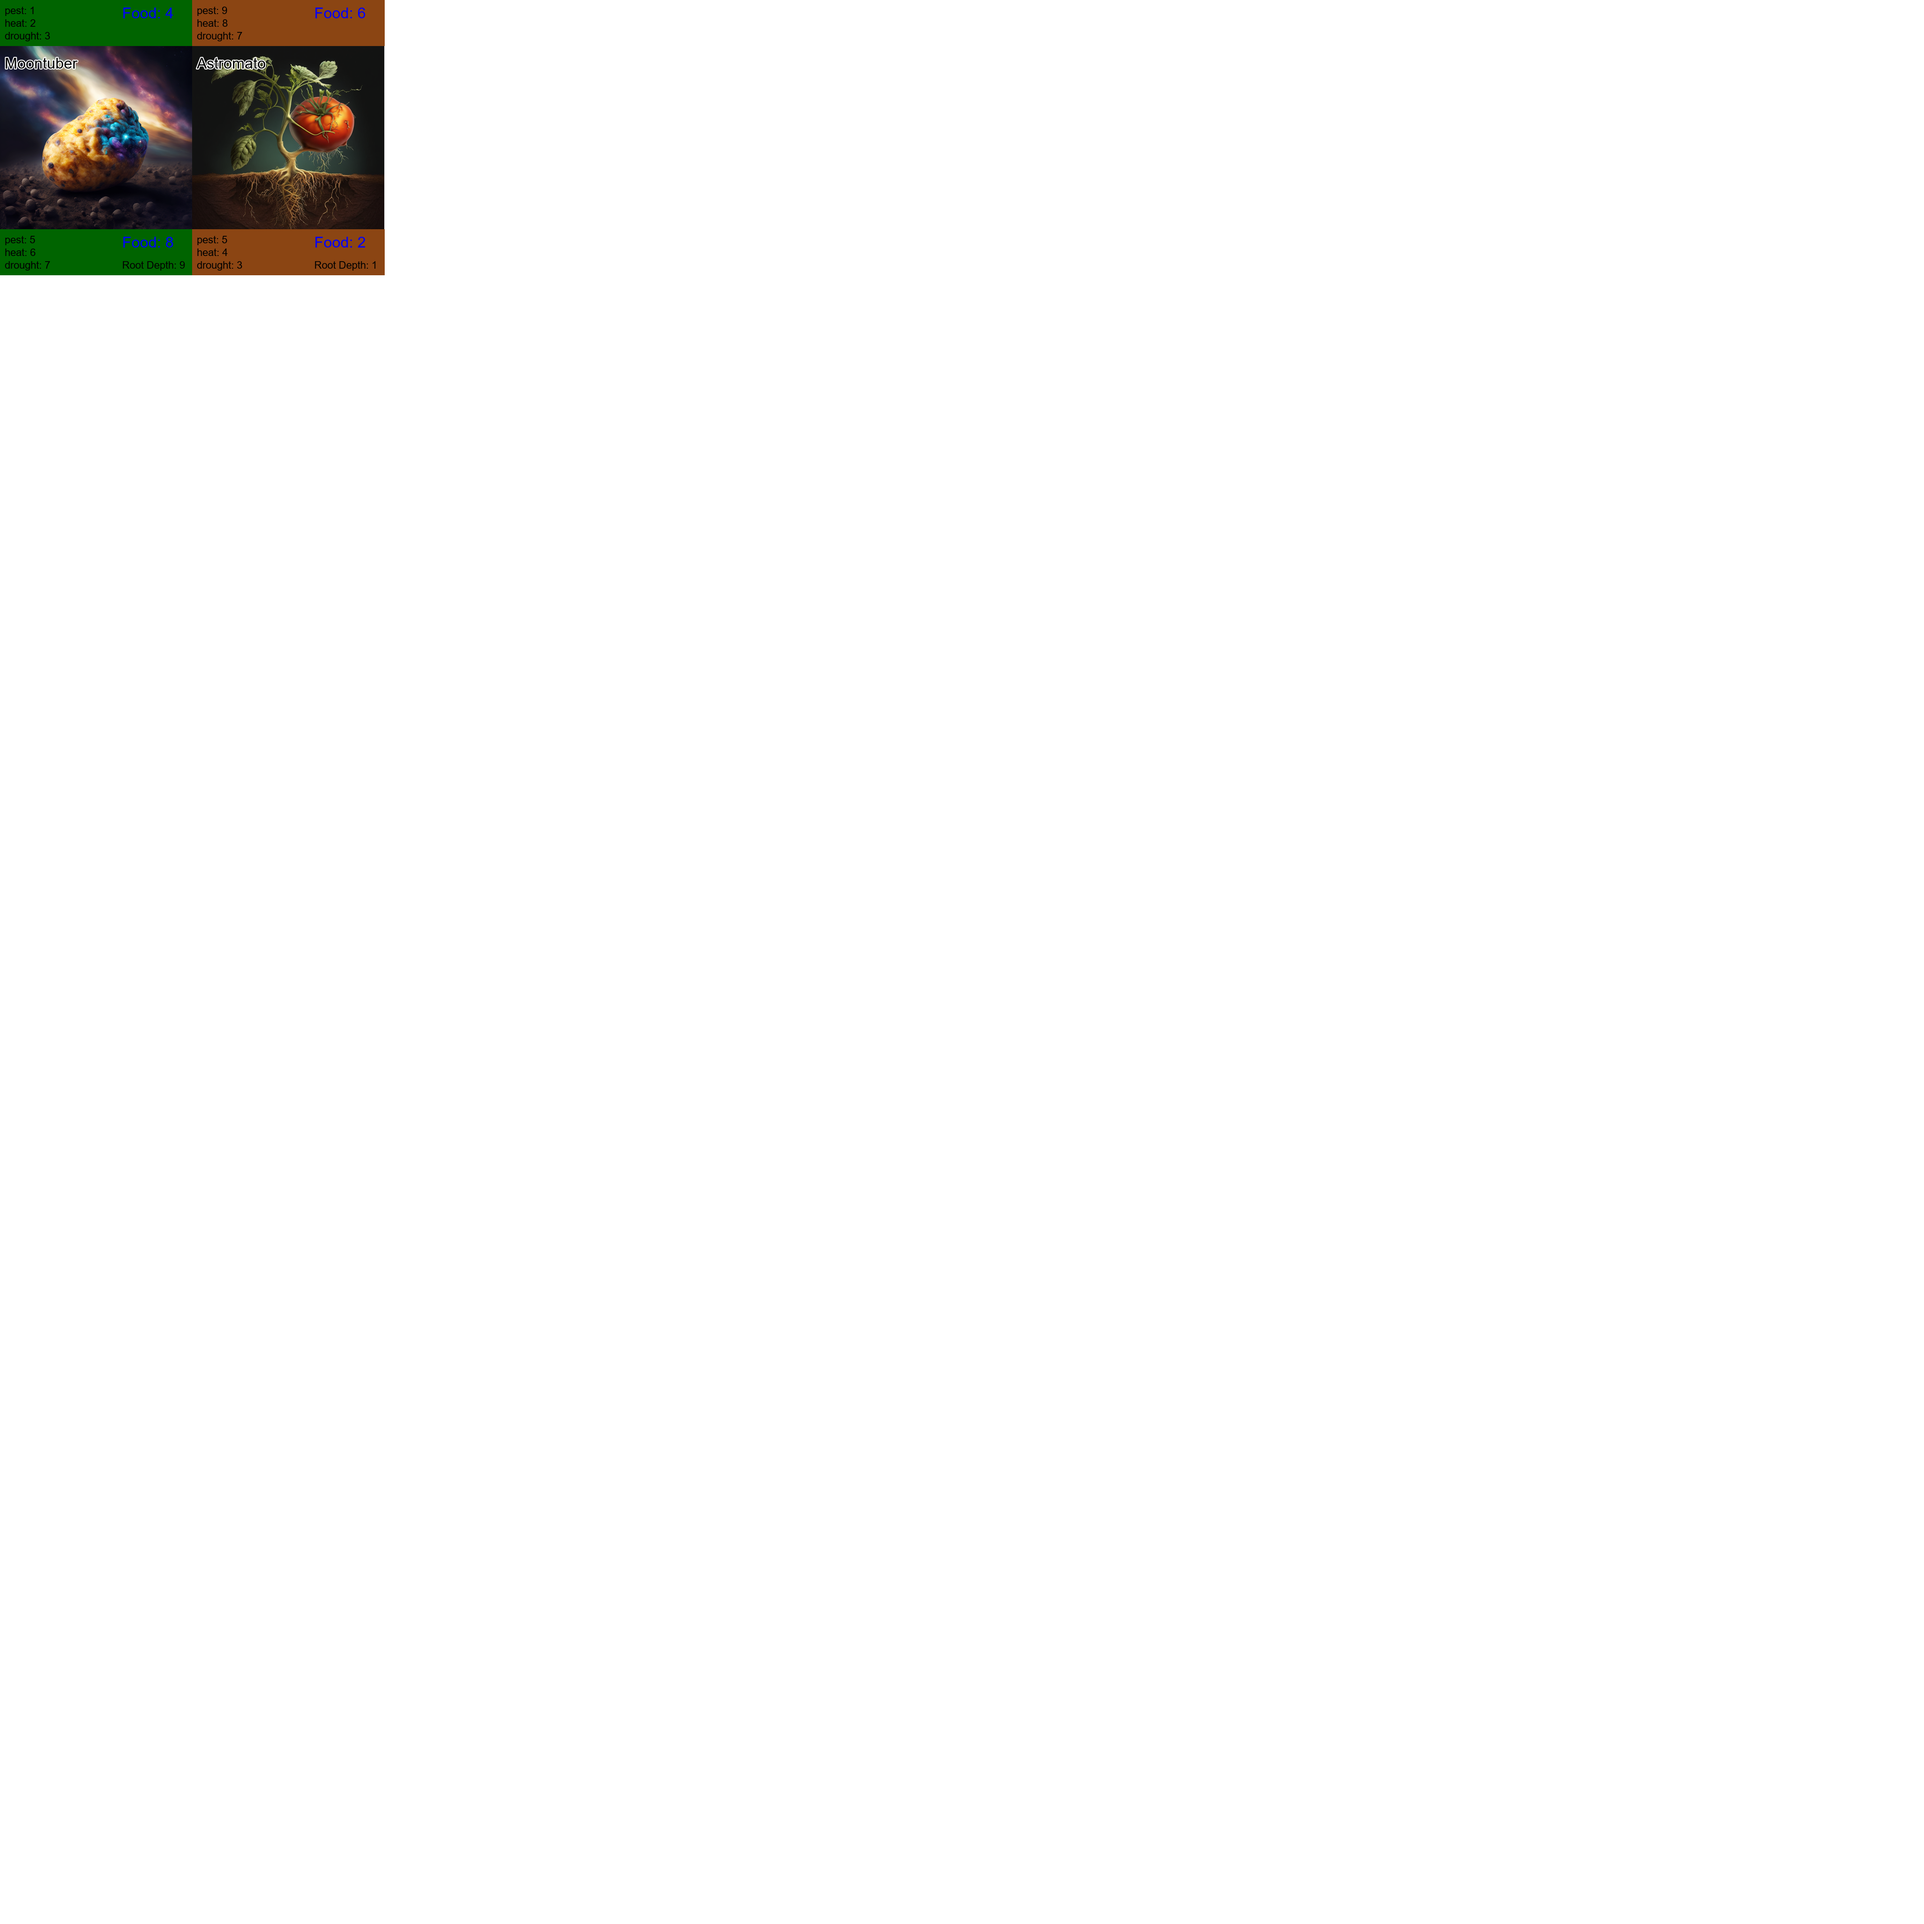
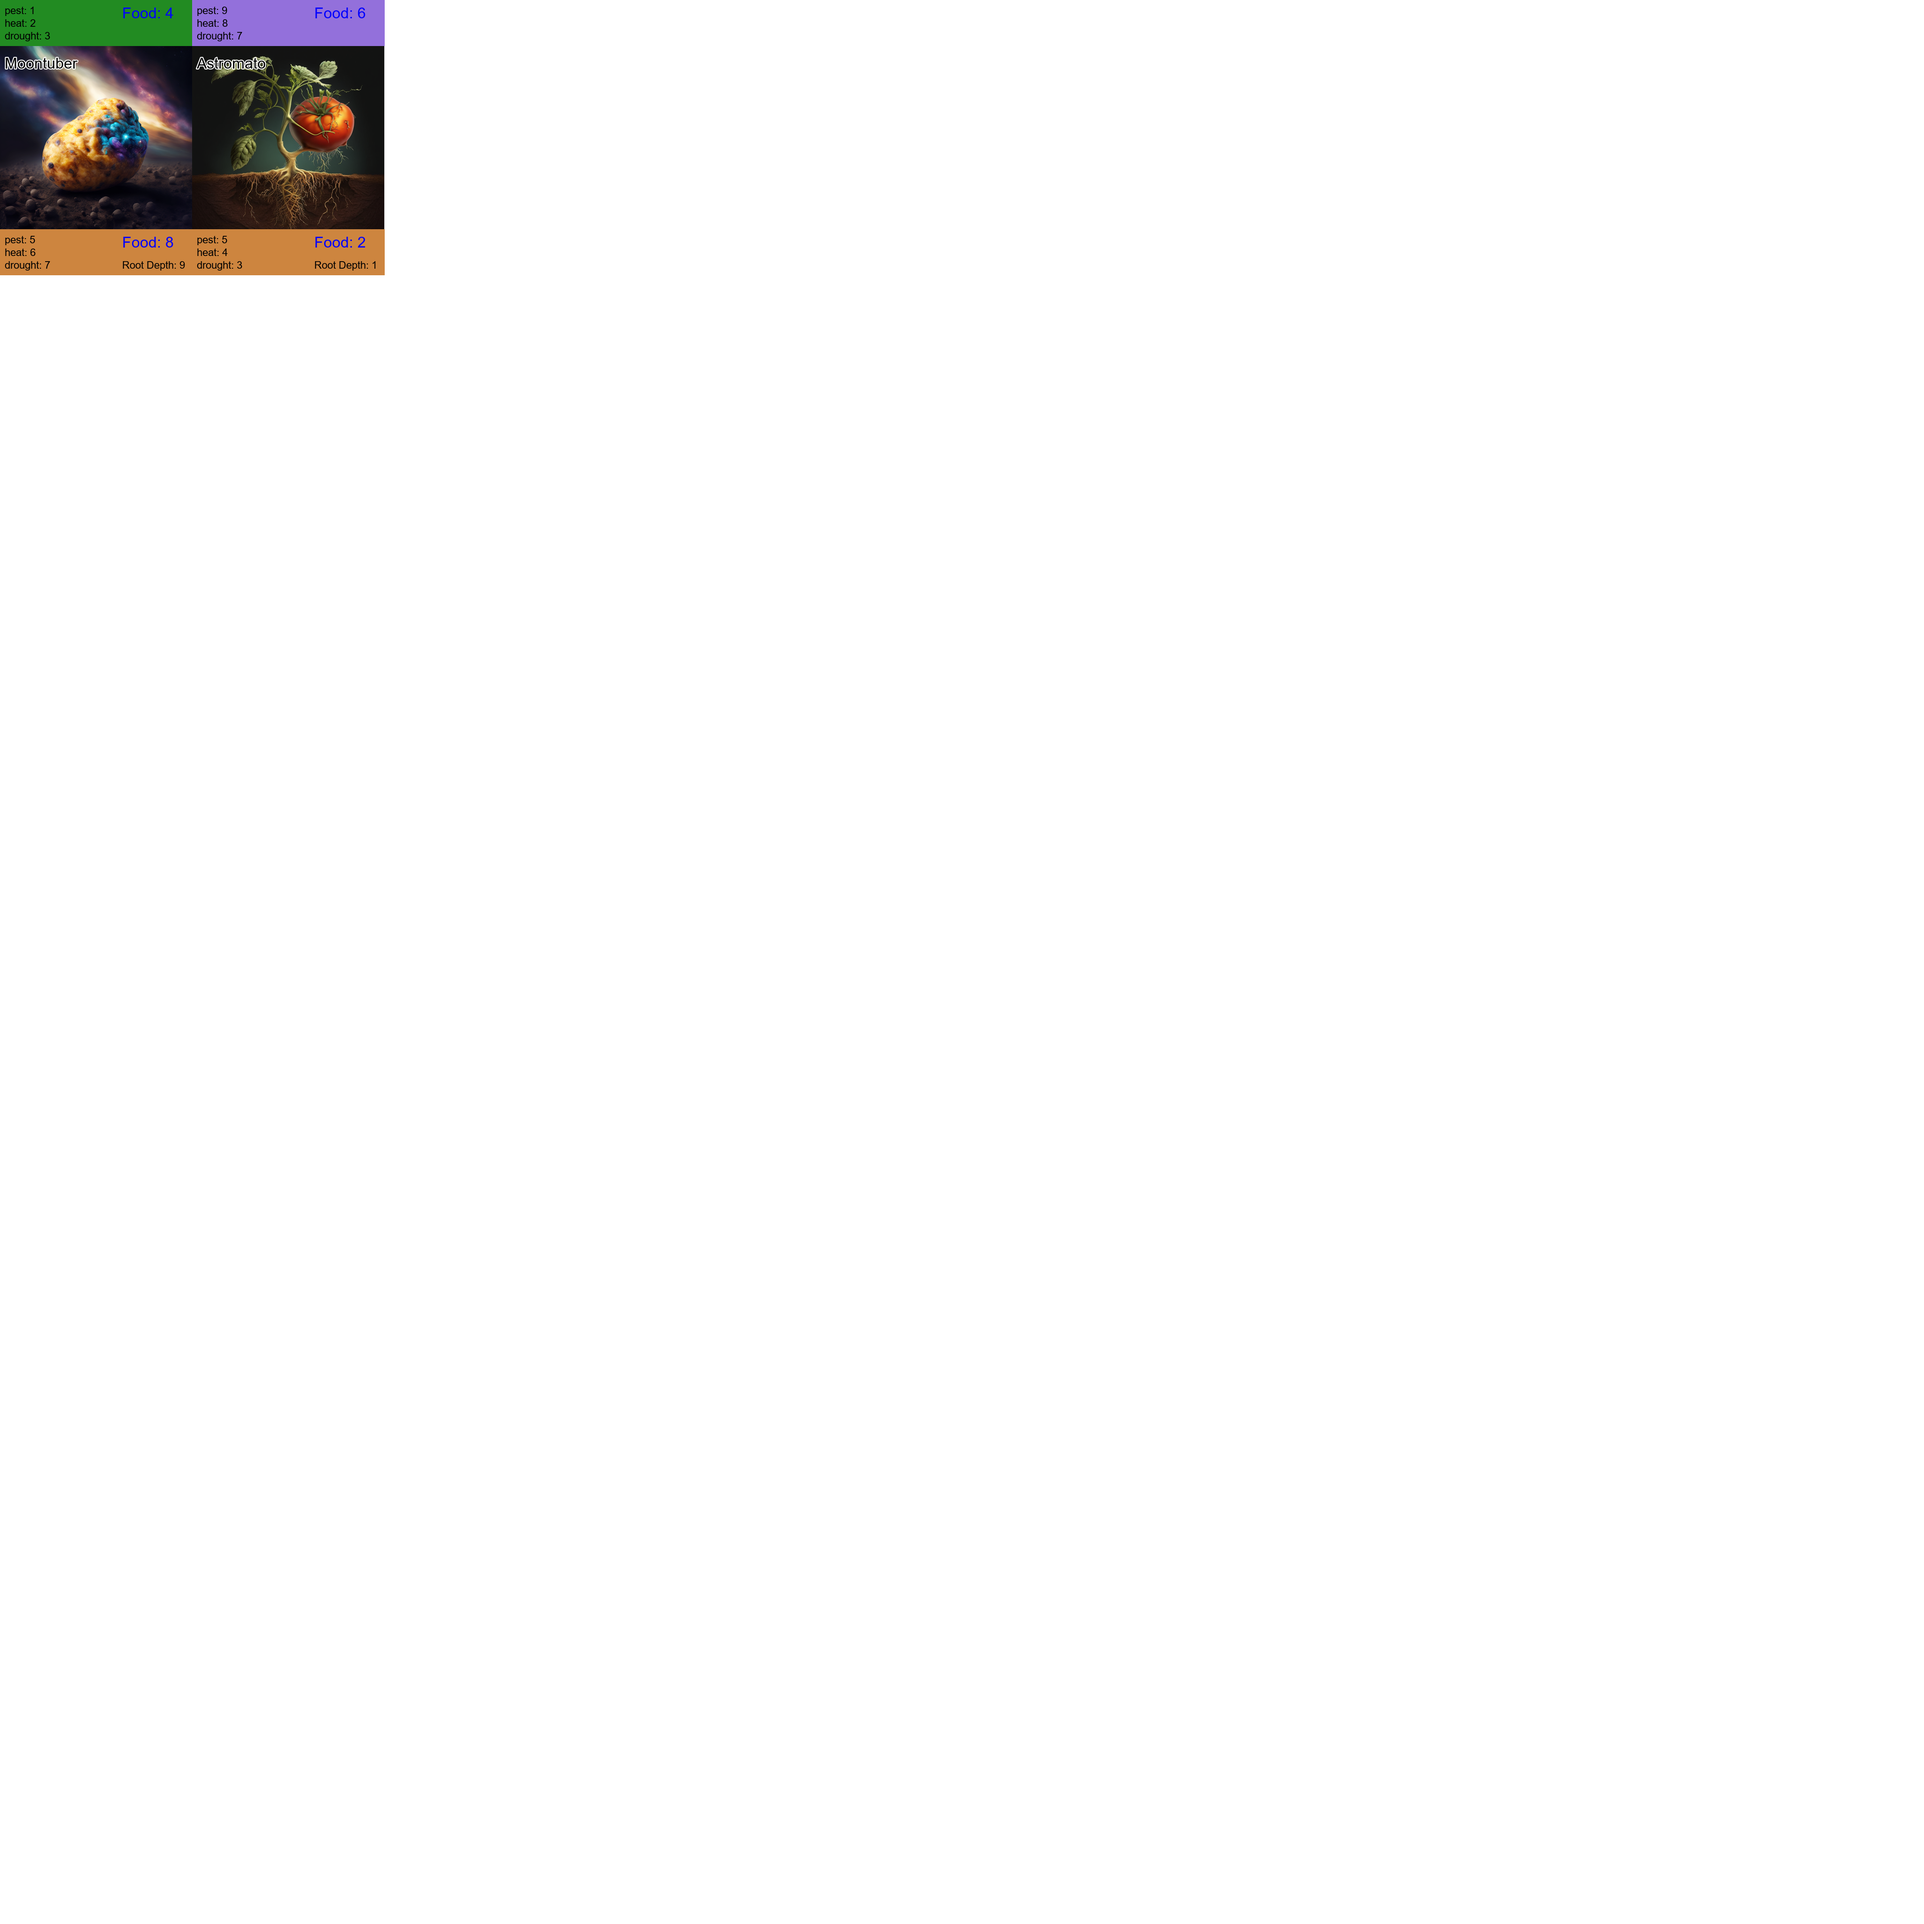
Change in plant deck colors

Changed region(s): [[0.0, 0.0938, 0.2188, 0.1562], [0.0, 0.0, 0.2188, 0.0312]]

diff --git a/plant_deck.py b/plant_deck.py
@@ -35,6 +35,7 @@ for i, row in enumerate(data):
     # Whole card bg, useful for showing when we don't have an image
     draw.rectangle(card_position_on_sheet, fill="lightgray")
 
+
     # top overlay
     stat_overlay_size = (int(card_w_px),int(card_h_px/6))
     top_overlay = [xy_pos, (xy_pos[0] + stat_overlay_size[0], xy_pos[1] + stat_overlay_size[1])]
@@ -53,12 +54,15 @@ for i, row in enumerate(data):
     # draw overlays
     overlay_color = "gray"
     top_overlay_color = overlay_color
+
+    border_width = 10
+
     if row["type (perennial or annual)"] == "A":
-        overlay_color = "DarkGreen"
-        top_overlay_color = "Blue"
+        overlay_color = "Peru"
+        top_overlay_color = "ForestGreen"
     elif row["type (perennial or annual)"] == "B":
-        overlay_color = "SaddleBrown"
-        top_overlay_color = "Red"
+        overlay_color = "Peru"
+        top_overlay_color = "MediumPurple"
     draw.rectangle(top_overlay, fill=top_overlay_color)
     draw.rectangle(bottom_overlay, fill=overlay_color)
     text_col_buffer_px = 10
